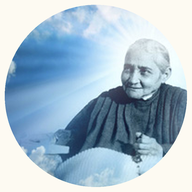
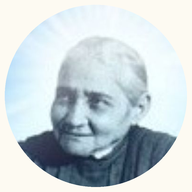
Nouvelle photo Luisa mieux cadree pour icones PWA

diff --git a/make_icons.py b/make_icons.py
@@ -9,7 +9,7 @@ ivoire (#fdfaf2), photo occupant ~80 % (marge ivoire autour).
 """
 from PIL import Image, ImageDraw
 
-SRC = "static/luisa.jpg"
+SRC = "static/luisa_icon.jpg"
 IVORY = (253, 250, 242)        # #fdfaf2
 PHOTO_RATIO = 0.95             # la photo occupe 95 % de l'icône (fine marge ivoire)
 SUPERSAMPLE = 4                # anti-crénelage du cercle
